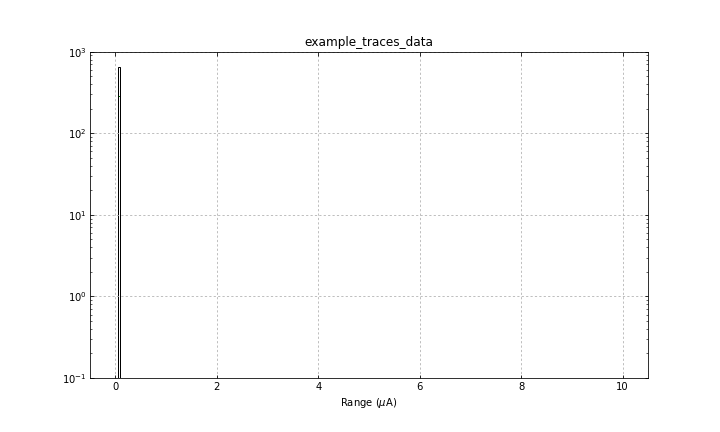
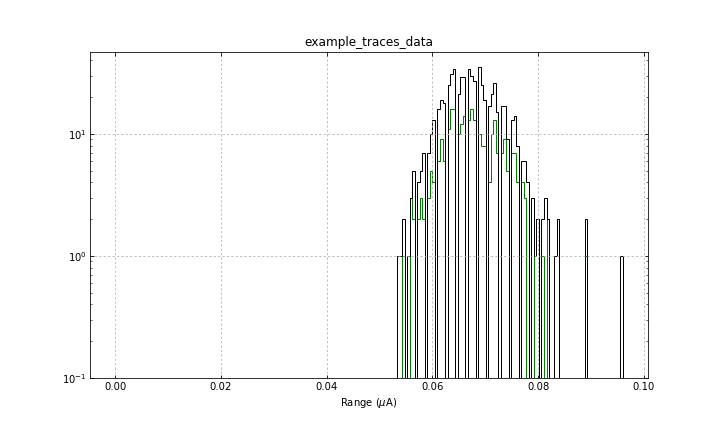
fixed limits on range plot

diff --git a/Final_Project/DIDV.py b/Final_Project/DIDV.py
@@ -1262,8 +1262,7 @@ def processDIDV(rawTraces, timeOffset=0, traceGain=1.25e5, sgFreq=200.0, sgAmp=0
             rmax=max(ranges_all*1e6)
         else:
             rmax=max(ranges*1e6)
-        if(rmax < 10.0):
-            rmax=10.0
+            
         ax.hist(ranges*1e6, bins=200, range=(0.0, rmax), log=True, histtype='step', color='green')
         if(autoCut):
             ax.hist(ranges_all*1e6, bins=200, range=(0.0, rmax), log=True, histtype='step', color='black')
